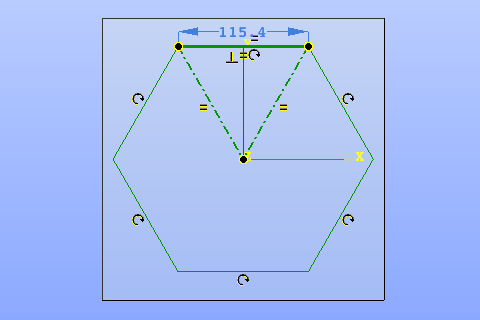
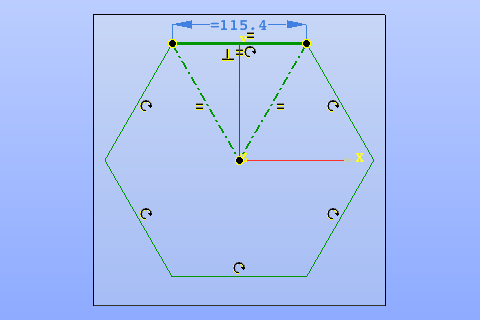
Add parameters creation to the tutorial.

diff --git a/doc/gui/examples/tutorial.py b/doc/gui/examples/tutorial.py
@@ -9,13 +9,17 @@ partSet = model.moduleDocument()
 Part_1 = model.addPart(partSet)
 Part_1_doc = Part_1.document()
 
+# Parameters
+model.addParameter(Part_1_doc, "h", "90", "nut height")
+model.addParameter(Part_1_doc, "a", "115.4")
+
 # Step1. Sketch.
 Sketch_1 = model.addSketch(Part_1_doc, model.defaultPlane("XOY"))
-SketchLine_1 = Sketch_1.addLine(-57.7, 99.93933159672423, 57.7, 99.93933159672423)
-SketchLine_2 = Sketch_1.addLine(57.7, 99.93933159672423, 0, 0)
+SketchLine_1 = Sketch_1.addLine(-57.69999999999999, 99.93933159672423, 57.70000000000001, 99.93933159672423)
+SketchLine_2 = Sketch_1.addLine(57.70000000000001, 99.93933159672423, 0, 0)
 SketchLine_2.setAuxiliary(True)
 SketchConstraintCoincidence_1 = Sketch_1.setCoincident(SketchLine_1.endPoint(), SketchLine_2.startPoint())
-SketchLine_3 = Sketch_1.addLine(0, 0, -57.7, 99.93933159672423)
+SketchLine_3 = Sketch_1.addLine(0, 0, -57.69999999999999, 99.93933159672423)
 SketchLine_3.setAuxiliary(True)
 SketchConstraintCoincidence_2 = Sketch_1.setCoincident(SketchLine_2.endPoint(), SketchLine_3.startPoint())
 SketchConstraintCoincidence_3 = Sketch_1.setCoincident(SketchLine_1.startPoint(), SketchLine_3.endPoint())
@@ -29,7 +33,7 @@ SketchConstraintEqual_1 = Sketch_1.setEqual(SketchLine_3.result(), SketchLine_1.
 SketchConstraintEqual_2 = Sketch_1.setEqual(SketchLine_2.result(), SketchLine_1.result())
 SketchMultiRotation_1 = Sketch_1.addRotation([SketchLine_1.result()], SketchAPI_Line(SketchLine_4).startPoint(), 360, 6, True)
 [SketchLine_5, SketchLine_6, SketchLine_7, SketchLine_8, SketchLine_9] = SketchMultiRotation_1.rotated()
-SketchConstraintLength_1 = Sketch_1.setLength(SketchLine_1.result(), 115.4)
+SketchConstraintLength_1 = Sketch_1.setLength(SketchLine_1.result(), "a")
 model.do()
 
 # Step2. Polyline.
@@ -43,11 +47,10 @@ Point_5 = model.addPoint(Part_1_doc, 112, 0, 48)
 Point_5.result().setColor(0, 0, 255)
 Point_6 = model.addPoint(Part_1_doc, 80, 0, 63)
 Point_6.result().setColor(0, 0, 255)
-Point_7 = model.addPoint(Part_1_doc, 80, 0, 90)
+Point_7 = model.addPoint(Part_1_doc, "80", "0", "h")
 Point_7.result().setColor(0, 0, 255)
-Point_8 = model.addPoint(Part_1_doc, 50, 0, 90)
+Point_8 = model.addPoint(Part_1_doc, "50", "0", "h")
 Point_8.result().setColor(0, 0, 255)
-
 Polyline_1_objects = [model.selection("VERTEX", "Point_1"), model.selection("VERTEX", "Point_2"),
                       model.selection("VERTEX", "Point_3"), model.selection("VERTEX", "Point_4"),
                       model.selection("VERTEX", "Point_5"), model.selection("VERTEX", "Point_6"),
@@ -61,14 +64,17 @@ Face_1 = model.addFace(Part_1_doc, [model.selection("WIRE", "Polyline_1_1")])
 Revolution_1 = model.addRevolution(Part_1_doc, [model.selection("FACE", "Face_1_1")], model.selection("EDGE", "PartSet/OZ"), 360, 0)
 
 # Step5. Extrusion.
-Wire_Name = "Sketch_1/Wire-SketchLine_1r-SketchLine_5r-SketchLine_6r-SketchLine_7r-SketchLine_8r-SketchLine_9r"
-Extrusion_1 = model.addExtrusion(Part_1_doc, [model.selection("WIRE", Wire_Name)], model.selection("EDGE", "PartSet/OZ"), 100, 0)
+Wire = model.selection("WIRE", "Sketch_1/Wire-SketchLine_1r-SketchLine_5r-SketchLine_6r-SketchLine_7r-SketchLine_8r-SketchLine_9r")
+To = model.selection("FACE", "Revolution_1_1/Generated_Face_6")
+From = model.selection("FACE", "Revolution_1_1/Generated_Face_1")
+
+Extrusion_1 = model.addExtrusion(Part_1_doc, [Wire], model.selection("EDGE", "PartSet/OZ"), To, 0, From, 0)
 
 # Step6. Common.
 Common_1 = model.addCommon(Part_1_doc, [model.selection("SOLID", "Revolution_1_1"), model.selection("SOLID", "Extrusion_1_1")])
 
 # Step7. Fillet.
-Fillet_1 = model.addFillet(Part_1_doc, [model.selection("EDGE", "Revolution_1_1/Generated_Face_5&Common_1_1/Modified_Face_10")], 10)
+Fillet_1 = model.addFillet(Part_1_doc, [model.selection("EDGE", "Revolution_1_1/Generated_Face_5&Common_1_1/Modified_Face_11")], 10)
 
 # Step8. Box.
 Box_1 = model.addBox(Part_1_doc, 20, 120, 20)

diff --git a/doc/gui/Tutorial.rst b/doc/gui/Tutorial.rst
@@ -94,7 +94,7 @@ At this step we will create a regular hexagon.
    Regular hexagon
 - Select the upper side of the hexagon
 - Start creation of :ref:`Length <sketchLength>` constraint via **Length** button in Sketch toolbar
-- Set length value equal to 115.4 and press **Enter**
+- Set length expression equal to "a=115.4" and press **Enter**
 .. image:: images/tutorial1_11.png
    :align: center
 
@@ -106,10 +106,24 @@ At this step we will create a regular hexagon.
 
 .. centered::
    Finished Sketch
+- Check item corresponding to the created parameter **a** under **Part_1 / Parameters** node
+.. image:: images/tutorial1_13.png
+   :align: center
+
+.. centered::
+   Parameter created during the Sketch operation
 
 Step2. Polyline.
 ----------------
 
+- Start :ref:`Parameter <parameter>` creation via Main Menu *Part - > Parameter*
+- Set parameter name = "h", set parameter expression = "90", set comment = "nut height"
+.. image:: images/tutorial2_0.png
+   :align: center
+
+.. centered::
+   Creation of parameter h = 90
+- Click **Apply** button to finish parameter creation
 - Start :ref:`Point <constructionPoint>` creation via Main Menu *Construction - > Point*
 - Set x = 50, y = 0, z = 0
 .. image:: images/tutorial2_1.png
@@ -118,7 +132,7 @@ Step2. Polyline.
 .. centered::
    Construction of point (50, 0, 0)
 - Click **Apply** button to finish point creation
-- Create points (80, 0, 0), (112, 0, 13), (112, 0, 48), (80, 0, 63), (80, 0, 90), (50, 0, 90) in the same way
+- Create points (80, 0, 0), (112, 0, 13), (112, 0, 48), (80, 0, 63), (80, 0, h), (50, 0, h) in the same way
 - Select the created points in the object browser under **Part_1 / Constructions** node
 - Click right mouse button and select **Color...** item in the popup menu
 - Select blue color and click **OK** button
@@ -183,12 +197,14 @@ Step5. Extrusion.
 - Start :ref:`Extrusion <featureExtrusion>` creation via Main Menu *Features - > Extrusion*
 - Select the hexagon created at step 1
 - Click on axis input field in the property panel and select **OZ** axis in the view
-- Set **To size** parameter equal to 100
+- Check **By bounding planes and offsets option**
+- Select the bottom face of the revolution shape as **From** plane
+- Select the top face of the revolution shape as **To** plane
 .. image:: images/tutorial5_1.png
    :align: center
 
 .. centered::
-   Extrusion along OZ axis from 0 to 100
+   Extrusion along OZ axis by bounding planes
 - Click **Apply** button in the property panel
 .. image:: images/tutorial5_2.png
    :align: center
